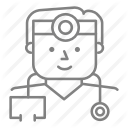
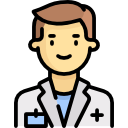
Actualizacion de parte grafica <Nuevo diseño

diff --git a/src/app/sign-in/sign-in.component.html b/src/app/sign-in/sign-in.component.html
@@ -20,42 +20,42 @@
     <input #signIn_contrasenaC type="password" class="form-control">
   </div>
 
-  <div class="container-fluid">
-  <div class="form-check-inline">
-    <input #radioPharmacy1 class="form-check-input" type="radio" name="exampleradioPharmacy1" value="option1" checked>
-    <label class="form-check-label" >
-      Phischel
-    </label>
 
-  </div>
-  <div class="form-check-inline">
-    <input #radioPharmacy2 class="form-check-input" type="radio" name="exampleradioPharmacy1" value="option2">
-    <label class="form-check-label" >
-      BombaTica
-    </label>
-  </div>
+
+  <div class="form-group">
+    <label>Farmacia</label>
+    <div>
+      <div class="form-check-inline">
+        <input #radioPharmacy1 class="form-check-input" type="radio" name="exampleradioPharmacy1" value="option1">
+        <label class="form-check-label">Phischel</label>
+      </div>
+      <div class="form-check-inline">
+        <input #radioPharmacy2 class="form-check-input" type="radio" name="exampleradioPharmacy1" value="option2">
+        <label class="form-check-label">BombaTica</label>
+      </div>
+    </div>
   </div>
 
-  <div class="container-fluid">
-  <div class="form-check-inline">
-    <input #radioGerente class="form-check-input" type="radio" name="exampleRadios" value="option1" checked>
-    <label class="form-check-label" >
-      Gerente
-    </label>
+
+
+  <div class="form-group">
+    <label>Rol</label>
+    <div>
+      <div class="form-check-inline">
+        <input #radioGerente class="form-check-input" type="radio" name="exampleradioPharmacy1" value="option1" >
+        <label class="form-check-label">Gerente</label>
+      </div>
+      <div class="form-check-inline">
+        <input #radioDependiente class="form-check-input" type="radio" name="exampleradioPharmacy2" value="option2">
+        <label class="form-check-label">Dependiente</label>
+      </div>
+      <div class="form-check-inline">
+        <input #radioFarmaceutico class="form-check-input" type="radio" name="exampleradioPharmacy3" value="option3">
+        <label class="form-check-label">Farmacéuticos</label>
+      </div>
+    </div>
   </div>
-  <div class="form-check-inline">
-    <input #radioDependiente class="form-check-input" type="radio" name="exampleRadios" value="option2">
-    <label class="form-check-label" >
-      Dependiente
-    </label>
-  </div>
-  <div class="form-check-inline">
-    <input #radioFarmaceutico class="form-check-input" type="radio" name="exampleRadios"  value="option2">
-    <label class="form-check-label" >
-      Farmacéuticos
-    </label>
-  </div>
-  </div>
+
 
   <button type="button" class="btn btn-primary btn-block" (click)="checkNewUser(signNombre.value,signIn_nombreUsuario.value,signIn_contrasena.value ,
   signIn_contrasenaC.value, radioGerente.checked, radioDependiente.checked,radioFarmaceutico.checked)">

diff --git a/src/app/cliente/c-crear/c-crear.component.html b/src/app/cliente/c-crear/c-crear.component.html
@@ -1,6 +1,6 @@
-<nav class="navbar navbar-light">
+<nav class="navbar navbar-light color">
   <a class="navbar-brand">
-    <img src="assets/cliente.png" width="30" height="30" class="d-inline-block align-top" alt="">
+    <img src="assets/f.png" width="30" height="30" class="d-inline-block align-top" alt="">
     <span class="colorWhite">  Cliente : Crear </span>
   </a>
   <a class="colorWhite" routerLink="/gestion">Salir</a>
@@ -11,33 +11,33 @@
   <br><br>
   <form>
     <div class="form-group">
-      <label>Numero de Cédula</label>
+      <label>Numero de Cédula </label>
       <input type="text" class="form-control" id="cc-numeroCedula" placeholder="301110555">
     </div>
 
     <div class="form-group">
       <label>Nombre</label>
-      <input type="text" class="form-control" id="cc-nombre" placeholder="">
+      <input type="text" class="form-control" id="cc-nombre" >
     </div>
 
     <div class="form-group">
       <label>Apellido</label>
-      <input type="text" class="form-control" id="cc-apellido" placeholder="">
+      <input type="text" class="form-control" id="cc-apellido" >
     </div>
 
     <div class="form-group">
       <label>Lugar de Residencia</label>
-      <input type="text" class="form-control" id="cc-lugarResidencia" placeholder="">
+      <input type="text" class="form-control" id="cc-lugarResidencia" >
     </div>
 
     <div class="form-group">
         <label>Fecha de nacimiento</label>
-        <input type="date" class="form-control" id="cc-fechaNacimiento" placeholder="">
+        <input type="date" class="form-control" id="cc-fechaNacimiento" >
       </div>
 
     <div class="form-group">
       <label>Telefono</label>
-      <input type="text" class="form-control" id="cc-telefono" placeholder="########">
+      <input type="tel" class="form-control" id="cc-telefono" >
     </div>
 
 

diff --git a/src/app/log-in/log-in.component.html b/src/app/log-in/log-in.component.html
@@ -1,12 +1,19 @@
 <h4><strong>Login</strong></h4>
-<div class="form-check form-check-inline">
-  <h5> Vista :   </h5>
-  <input class="form-check-input" type="radio" name="inlineRadioOptions" id="inlineRadio1" value="option1" (click)=setAdmin()>
-  <label class="form-check-label" for="inlineRadio1">Administrador</label>
 
-  <input class="form-check-input" type="radio" name="inlineRadioOptions" id="inlineRadio2" value="option2" (click)=setSuc()>
-  <label class="form-check-label" for="inlineRadio2">Sucursal</label>
+<div class="form-group">
+  <label>Vista</label>
+  <div>
+    <div class="form-check-inline">
+      <input #radioPharmacy1 class="form-check-input" type="radio" name="exampleradioPharmacy1" value="option1" (click)=setAdmin()>
+      <label class="form-check-label">Administrador</label>
+    </div>
+    <div class="form-check-inline">
+      <input #radioPharmacy2 class="form-check-input" type="radio" name="exampleradioPharmacy1" value="option2"  (click)=setSuc()>
+      <label class="form-check-label">Sucursal</label>
+    </div>
+  </div>
 </div>
+
 
 <form class="color">
   <div class="form-group">

diff --git a/src/app/gestion/gestion.component.html b/src/app/gestion/gestion.component.html
@@ -4,7 +4,7 @@
   <div class="col-6 col-md-4 ">
     <h3 class="text-center">Cliente</h3>
     <div class="text-center">
-      <img src="assets/cliente.png" class="img-responsive" alt="Responsive image">
+      <img src="assets/f.png" class="img-responsive" alt="Responsive image">
     </div>
     <a routerLink="/cliente/c-crear" class="badge badge-primary">Crear</a>
     <a routerLink="/cliente/c-actualizar" class="badge badge-primary">Actualizar</a>
@@ -24,7 +24,7 @@
   <div class="col-6 col-md-4 ">
     <h3 class="text-center">Medicamento</h3>
     <div class="text-center">
-      <img src="assets/medicamento.png" class="img-responsive" alt="Responsive image">
+      <img src="assets/medi.png" class="img-responsive" alt="Responsive image">
     </div>
     <a routerLink="/medicamentos/m-crear" class="badge badge-primary">Crear</a>
     <a routerLink="/medicamentos/m-actualizar" class="badge badge-primary">Actualizar</a>

diff --git a/src/app/estadistica/generar/generar.component.html b/src/app/estadistica/generar/generar.component.html
@@ -1,6 +1,6 @@
 <nav class="navbar navbar-light color">
   <a class="navbar-brand">
-    <img src="assets/estadistica.png" width="30" height="30" class="d-inline-block align-top" alt="">
+    <img src="assets/grafica.png" width="30" height="30" class="d-inline-block align-top" alt="">
     <span class="colorWhite">Estadistica : Generar</span>
   </a>
   <a class="colorWhite" routerLink="/gestion">Salir</a>
@@ -12,7 +12,7 @@
   <div class="row">
     <div class="col">
       <div class="card" style="width: 500px;">
-        <div class="card-header">
+        <div class="card-header ">
           Productos más vendidos en total
         </div>
         <ul class="list-group list-group-flush">

diff --git a/src/app/medicamentos/m-actualizar/m-actualizar.component.html b/src/app/medicamentos/m-actualizar/m-actualizar.component.html
@@ -1,6 +1,6 @@
 <nav class="navbar navbar-light color">
   <a class="navbar-brand">
-    <img src="assets/medicamento.png" width="30" height="30" class="d-inline-block align-top" alt="">
+    <img src="assets/medi.png" width="30" height="30" class="d-inline-block align-top" alt="">
     <span class="colorWhite">Medicamento : Actualizar</span>
   </a>
   <a class="colorWhite" routerLink="/gestion">Salir</a>

diff --git a/src/app/medicamentos/m-consulta/m-consulta.component.html b/src/app/medicamentos/m-consulta/m-consulta.component.html
@@ -1,6 +1,6 @@
 <nav class="navbar navbar-light color">
   <a class="navbar-brand">
-    <img src="assets/medicamento.png" width="30" height="30" class="d-inline-block align-top" alt="">
+    <img src="assets/medi.png" width="30" height="30" class="d-inline-block align-top" alt="">
     <span class="colorWhite">Medicamento : Consulta</span>
   </a>
   <a class="colorWhite" routerLink="/gestion">Salir</a>

diff --git a/src/app/medicamentos/m-eliminar/m-eliminar.component.html b/src/app/medicamentos/m-eliminar/m-eliminar.component.html
@@ -1,6 +1,6 @@
 <nav class="navbar navbar-light color">
   <a class="navbar-brand">
-    <img src="assets/medicamento.png" width="30" height="30" class="d-inline-block align-top" alt="">
+    <img src="assets/medi.png" width="30" height="30" class="d-inline-block align-top" alt="">
     <span class="colorWhite">Medicamento : Eliminar</span>
   </a>
   <a class="colorWhite" routerLink="/gestion">Salir</a>

diff --git a/src/app/medicamentos/m-crear/m-crear.component.html b/src/app/medicamentos/m-crear/m-crear.component.html
@@ -1,6 +1,6 @@
 <nav class="navbar navbar-light color">
   <a class="navbar-brand">
-    <img src="assets/medicamento.png" width="30" height="30" class="d-inline-block align-top" alt="">
+    <img src="assets/medi.png" width="30" height="30" class="d-inline-block align-top" alt="">
     <span class="colorWhite">Medicamento : Crear</span>
   </a>
   <a class="colorWhite" routerLink="/gestion">Salir</a>

diff --git a/src/app/medicamentos/m-lista/m-lista.component.html b/src/app/medicamentos/m-lista/m-lista.component.html
@@ -1,6 +1,6 @@
 <nav class="navbar navbar-light color">
   <a class="navbar-brand">
-    <img src="assets/medicamento.png" width="30" height="30" class="d-inline-block align-top" alt="">
+    <img src="assets/medi.png" width="30" height="30" class="d-inline-block align-top" alt="">
     <span class="colorWhite">Medicamento : Lista</span>
   </a>
   <a class="colorWhite" routerLink="/gestion">Salir</a>

diff --git a/src/app/cliente/c-eliminar/c-eliminar.component.html b/src/app/cliente/c-eliminar/c-eliminar.component.html
@@ -1,6 +1,6 @@
 <nav class="navbar navbar-light color">
   <a class="navbar-brand">
-    <img src="assets/cliente.png" width="30" height="30" class="d-inline-block align-top" alt="">
+    <img src="assets/f.png" width="30" height="30" class="d-inline-block align-top" alt="">
     <span class="colorWhite">  Cliente : Eliminar </span>
   </a>
   <a class="colorWhite" routerLink="/gestion">Salir</a>

diff --git a/src/app/cliente/c-actualizar/c-actualizar.component.html b/src/app/cliente/c-actualizar/c-actualizar.component.html
@@ -1,6 +1,6 @@
 <nav class="navbar">
   <a class="navbar-brand">
-    <img src="assets/cliente.png" width="30" height="30" class="d-inline-block align-top" alt="">
+    <img src="assets/f.png" width="30" height="30" class="d-inline-block align-top" alt="">
     <span class="colorWhite">  Cliente : Actualizar </span>
   </a>
   <a class="colorWhite" routerLink="/gestion">Salir</a>
